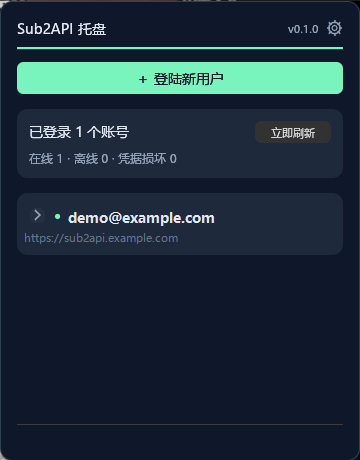
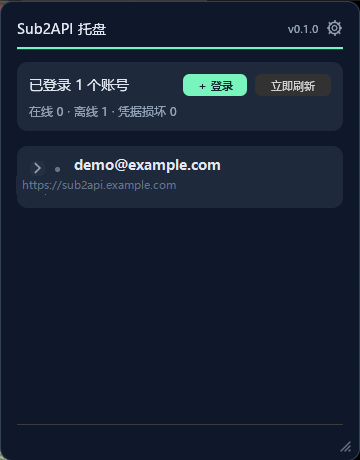
docs: 补充缩放说明并更新面板截图
README 增加可缩放与高 DPI 说明；AGENTS 变更记录登记；两张截图换成登录入口内嵌后的界面（账号信息仍为 demo 示例值）。

diff --git a/AGENTS.md b/AGENTS.md
@@ -406,6 +406,7 @@ cargo build --release                  # 产物：target/release/sub2api_tray
 | 2026-10-18 | 补充测试分层约定 | 默认套件必须可重复；loopback 端到端用例标 `#[ignore]`，验收时显式运行；假服务器公共代码集中在 `main.rs::test_support`；阶段 2 标记完成 |
 | 2026-10-18 | 补充 API Key 约定 | 阶段表新增 1d；`accounts.json` 的 `apiKeys` 只存摘要（id/名称/打码值/状态/分组/最近使用/抓取时间），**不存完整 Key** |
 | 2026-10-18 | 补充浏览约定 | 阶段表新增 1e；明确"托盘"= 弹出面板（原生菜单不能滚动/展开）；账号上限 10；面板默认不显示数据目录 |
+| 2026-10-18 | 面板可缩放 + 登录入口内嵌 | 面板改为可缩放（最小 320×240），定位改用窗口真实尺寸；右下角自绘缩放手柄（内缩 8px 避开系统命中区，否则系统会抢走拖拽）；「登陆新用户」并入顶部总览卡片做高亮按钮 |
 | 2026-10-18 | 删除冗余的 Key 弹窗 | 展开区已经展示名称/打码值/额度/用量/分组，点击即复制，弹窗只剩重复内容，整块删除（约 300 行）；退出按钮移到账号标题行右侧 |
 | 2026-10-18 | 菜单只留原子动作 | 右键菜单最终只剩「立即刷新 / 版本 / 退出」：面板靠左键切换、登录在面板顶部，所以去掉「显示面板」「登陆新用户」 |
 | 2026-10-18 | 账号入口收拢到面板 | 原生右键菜单不再列账号（系统菜单不能滚动/展开）；查看 Key、退出账号改为面板内按钮，删除仍走二次确认 |

diff --git a/README.md b/README.md
@@ -21,7 +21,9 @@
   **绿 / 黄 / 红** 表示"全部在线 / 有账号离线 / 有账号凭据失效"，也可以在菜单或面板里「立即刷新」。
 * **API Key**：点开账号即展开它的全部 Key，显示已用/总额度、最近用量与所属分组；
   **点任意 Key 就把完整值复制到剪贴板**，方块上会浮出「已复制」。断网时显示上次缓存的列表。
-* **设置**：右上角齿轮里可改账号名打码、刷新间隔、请求超时，开关开机自启、检查新版本。
+* **设置**：右上角齿轮里可改账号名打码、刷新间隔、请求超时，开关开机自启、检查新版本；
+* **可缩放**：拖面板右下角（或边缘）即可改宽高，最小 320×240；界面按逻辑点渲染，
+  高分辨率屏幕与系统缩放（125%/150%）下字体会等比放大，不会变小。
 * **记住状态**：哪个账号是展开的会被记住，重启应用或重启电脑后依然是展开的样子。
 
 ## 界面
